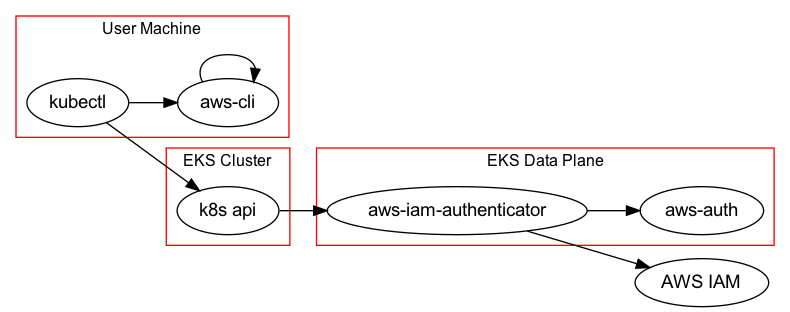
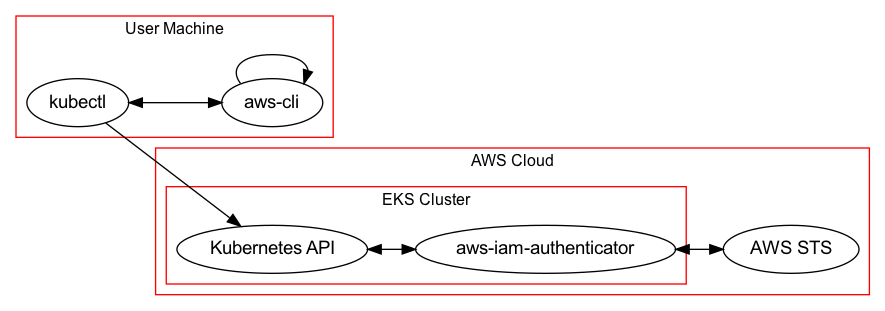
Updated aws-iam-authenticator model

diff --git a/examples/aws-iam-authenticator/ThreatModel.html b/examples/aws-iam-authenticator/ThreatModel.html
@@ -66,7 +66,7 @@
                 
                 <td>aws-cli</td>
                 
-                <td>Internal( Exec aws-cli get-token )</td>
+                <td>Exec( Exec aws-cli get-token )</td>
                 
                 </tr>
                 
@@ -79,7 +79,7 @@
                 
                 <td>aws-cli</td>
                 
-                <td>Internal( Sign URL using private key )</td>
+                <td>Internal( Sign URL using AWS IAM credentials )</td>
                 
                 </tr>
                 
@@ -92,7 +92,7 @@
                 
                 <td>kubectl</td>
                 
-                <td>Internal( STS PreSigned URL )</td>
+                <td>Stdout( STS pre-signed URL )</td>
                 
                 </tr>
                 
@@ -123,9 +123,9 @@
                 
                 <td>kubectl</td>
                 
-                <td>k8s api</td>
+                <td>Kubernetes API</td>
                 
-                <td>TLS( HTTP( STS token in HTTP header ) )</td>
+                <td>TLS( HTTP( pre-signed URL as Bearer Token HTTP Header ) )</td>
                 
                 </tr>
                 
@@ -134,11 +134,11 @@
                 
                 <td>2</td>
                 
-                <td>k8s api</td>
+                <td>Kubernetes API</td>
                 
                 <td>aws-iam-authenticator</td>
                 
-                <td>Unknown( STS Request from token )</td>
+                <td>TLS( HTTP( TokenReview request with pre-signed URL ) )</td>
                 
                 </tr>
                 
@@ -149,9 +149,9 @@
                 
                 <td>aws-iam-authenticator</td>
                 
-                <td>AWS IAM</td>
+                <td>AWS STS</td>
                 
-                <td>TLS( HTTP( SIGV4( STS Request ) ) )</td>
+                <td>TLS( HTTP( SIGV4( sts:GetCallerIdentity request ) ) )</td>
                 
                 </tr>
                 
@@ -160,11 +160,11 @@
                 
                 <td>4</td>
                 
-                <td>AWS IAM</td>
+                <td>AWS STS</td>
                 
                 <td>aws-iam-authenticator</td>
                 
-                <td>Unknown( ? )</td>
+                <td>TLS( HTTP( sts:GetCallerIdentity response ) )</td>
                 
                 </tr>
                 
@@ -175,9 +175,9 @@
                 
                 <td>aws-iam-authenticator</td>
                 
-                <td>aws-auth</td>
+                <td>Kubernetes API</td>
                 
-                <td>Unknown( Config Map )</td>
+                <td>TLS( HTTP( TokenReview response with username ) )</td>
                 
                 </tr>
                 
@@ -188,22 +188,9 @@
                 
                 <td>aws-iam-authenticator</td>
                 
-                <td>k8s api</td>
+                <td>Kubernetes API</td>
                 
-                <td>TLS( HTTP( Read Mapped usernames ) )</td>
-                
-                </tr>
-                
-            
-                <tr>
-                
-                <td>7</td>
-                
-                <td>k8s api</td>
-                
-                <td>aws-iam-authenticator</td>
-                
-                <td>TLS( HTTP( Config Map ) )</td>
+                <td>TLS( HTTP( Async Watch mapped aws-auth ConfigMap  ) )</td>
                 
                 </tr>
                 

diff --git a/example_aws_iam_authenticator.py b/example_aws_iam_authenticator.py
@@ -1,52 +1,67 @@
-from fluentm import Actor, Boundary, Process, DataFlow, HTTP, SIGV4, TLS, Unknown, SIGV4, JWS, Internal
+from fluentm import (
+    Actor,
+    Boundary,
+    Process,
+    DataFlow,
+    Exec,
+    HTTP,
+    SIGV4,
+    TLS,
+    Unknown,
+    SIGV4,
+    Stdout,
+    Internal,
+)
 from fluentm import report
 
 scenes = {
     # Example using variables, which is fine for small things but gets hard with longer flows
-    "kubectl gets pre-signed URL":[
+    "kubectl gets pre-signed URL": [
         DataFlow(
             Process("kubectl").inBoundary("User Machine"),
             Process("aws-cli").inBoundary("User Machine"),
-            Internal("Exec aws-cli get-token"),
-            ),
-        DataFlow(
-            Process("aws-cli"),
-            Process("aws-cli"),
-            Internal("Sign URL using private key")
+            Exec("Exec aws-cli get-token"),
         ),
         DataFlow(
-            Process("aws-cli"), Process("kubectl"), Internal("STS PreSigned URL")
-        )
+            Process("aws-cli"),
+            Process("aws-cli"),
+            Internal("Sign URL using AWS IAM credentials"),
+        ),
+        DataFlow(
+            Process("aws-cli"), Process("kubectl"), Stdout("STS pre-signed URL")
+        ),
     ],
     "API traffic": [
         DataFlow(
             Process("kubectl"),
-            Process("k8s api").inBoundary("EKS Data Plane").inBoundary("EKS Cluster"),
-            TLS(HTTP("STS token in HTTP header")),
+            Process("Kubernetes API").inBoundary(
+                Boundary("EKS Cluster").inBoundary("AWS Cloud")
+            ),
+            TLS(HTTP("pre-signed URL as Bearer Token HTTP Header")),
         ),
         DataFlow(
-            Process("k8s api"),
-            Process("aws-iam-authenticator").inBoundary("EKS Data Plane"),
-            Unknown("STS Request from token"),
-        ),
-        DataFlow(
-            Process("aws-iam-authenticator"),
-            Process("AWS IAM"),
-            TLS(HTTP(SIGV4("STS Request"))),
-            response=Unknown("?"),
+            Process("Kubernetes API"),
+            Process("aws-iam-authenticator").inBoundary("EKS Cluster"),
+            TLS(HTTP("TokenReview request with pre-signed URL")),
         ),
         DataFlow(
             Process("aws-iam-authenticator"),
-            Process("aws-auth").inBoundary("EKS Data Plane"),
-            Unknown("Config Map"),
+            Process("AWS STS").inBoundary("AWS Cloud"),
+            TLS(HTTP(SIGV4("sts:GetCallerIdentity request"))),
+            response=TLS(HTTP("sts:GetCallerIdentity response")),
         ),
         DataFlow(
             Process("aws-iam-authenticator"),
-            Process("k8s api"),
-            TLS(HTTP(("Read Mapped usernames"))),
-            response=TLS(HTTP("Config Map")) 
-        )
-    ]
+            Process("Kubernetes API").inBoundary("EKS Cluster"),
+            TLS(HTTP("TokenReview response with username")),
+        ),
+        DataFlow(
+            Process("aws-iam-authenticator"),
+            Process("Kubernetes API").inBoundary("EKS Cluster"),
+            TLS(HTTP(("Async Watch mapped aws-auth ConfigMap "))),
+            #response=TLS(HTTP("Config Map username mappings")),
+        ),
+    ],
 }
 
 if __name__ == "__main__":

diff --git a/fluentm.py b/fluentm.py
@@ -100,6 +100,34 @@ class DHCP(Plaintext):
         super().__init__(toWrap)
 
 
+class Exec(WrappableProtocol):
+    def __init__(self, toWrap):
+        super().__init__(
+            toWrap,
+            encrypted=False,
+            signed=False,
+            serverAuthenticated=False,
+            clientAuthenticated=False,
+            serverCredential=None,  # TODO: Replace with a type? Would that be useful?
+            clientCredential=None,
+            version=None,
+        )
+
+
+class Stdout(WrappableProtocol):
+    def __init__(self, toWrap):
+        super().__init__(
+            toWrap,
+            encrypted=False,
+            signed=False,
+            serverAuthenticated=False,
+            clientAuthenticated=False,
+            serverCredential=None,  # TODO: Replace with a type? Would that be useful?
+            clientCredential=None,
+            version=None,
+        )
+
+
 class Internal(WrappableProtocol):
     def __init__(self, toWrap):
         super().__init__(
